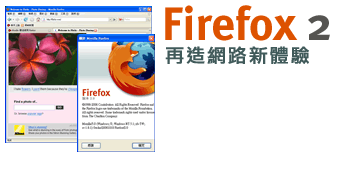
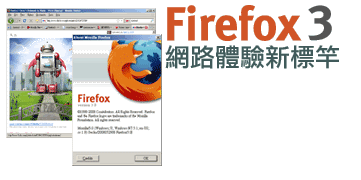
update for firefox 3
git-svn-id: http://svn.openfoundry.org/moztw@791 9cc691a1-34e3-0310-a474-e8860ed5959b

diff --git a/inc/dlff.html b/inc/dlff.html
@@ -4,8 +4,8 @@
 	window.onload = highlightDownload;
 	// -->
 </script><ul>
-<li><a href="http://www.mozilla.com/products/download.html?product=firefox-2.0.0.14&amp;os=win&amp;lang=zh-TW" title="" onClick="urchinTracker('/download_trace/fx2win');">Windows</a>
-<li><a href="http://www.mozilla.com/products/download.html?product=firefox-2.0.0.14&amp;os=linux&amp;lang=zh-TW" title="" onClick="urchinTracker('/download_trace/fx2linux');">Linux</a>
-<li><a href="http://www.mozilla.com/products/download.html?product=firefox-2.0.0.14&amp;os=osx&amp;lang=zh-TW" title="" onClick="urchinTracker('/download_trace/fx2mac');">Mac OS X</a>
-<li><a href="http://www.mozilla.com/firefox/all.html" onClick="urchinTracker('/outgoing/fx2download');">其它語言與平台</a> 
+<li><a href="http://www.mozilla.com/products/download.html?product=firefox-3.0&amp;os=win&amp;lang=zh-TW" title="" onClick="urchinTracker('/download_trace/fx3win');">Windows</a>
+<li><a href="http://www.mozilla.com/products/download.html?product=firefox-3.0&amp;os=linux&amp;lang=zh-TW" title="" onClick="urchinTracker('/download_trace/fx3linux');">Linux</a>
+<li><a href="http://www.mozilla.com/products/download.html?product=firefox-3.0&amp;os=osx&amp;lang=zh-TW" title="" onClick="urchinTracker('/download_trace/fx3mac');">Mac OS X</a>
+<li><a href="http://www.mozilla.com/firefox/all.html" onClick="urchinTracker('/outgoing/fx3download');">其它語言與平台</a> 
 </ul>

diff --git a/inc/news.html b/inc/news.html
@@ -1,10 +1,8 @@
 <ul class="news">
+<li><div class="date"> 6 月 18</div>
+  當然，您一定知道這則新聞的內容：<a href="http://moztw.org/firefox/">Firefox 3 隆重推出</a>，立刻下載吧！</li>
 <li><div class="date"> 6 月 5</div>
   有興趣參加 Firefox 3 Party 嗎？請<a href="http://spreadsheets.google.com/viewform?key=pgCLmf2kXn6uzp0j0d1vafQ">請填寫問卷</a>，也歡迎您來幫忙籌辦！</li>
 <li><div class="date"> 5 月 30</div>
   協助 Firefox 3 締造金氏世界紀錄！「<a href="http://moztw.org/events/record2008/">火狐鬥陣拼紀錄</a>」 (Firefox Download Day) 活動正式展開！</li>
-<li><div class="date"> 4 月 18</div>
-  Firefox 2.0.0.14 更新版本已發行。（<a href="http://moztw.org/firefox/releases/2.0.0.14">版本資訊</a>）</li>
-<li><div class="date"> 4 月 12</div>
-  <a href="http://moztw-z.wikidot.com">MozTW 自由新生代</a>熱血青少年研習活動，免費招生中！</li>
 </ul>

diff --git a/css/moztw.css b/css/moztw.css
@@ -240,7 +240,7 @@ address {
 
 /* 保持 mozilla.org 原先未分出 .com 時的樣式 */
 
-.front-feature-cwb { background: #E4EcEc url(../../images/feature-back-cwb.png) bottom right no-repeat;}
+.front-feature-cwb { background: #E4EcEc url(../../images/feature-back-cwb-fx3.png) bottom right no-repeat;}
 
 #front-feature div {
 	text-align: left !important;
